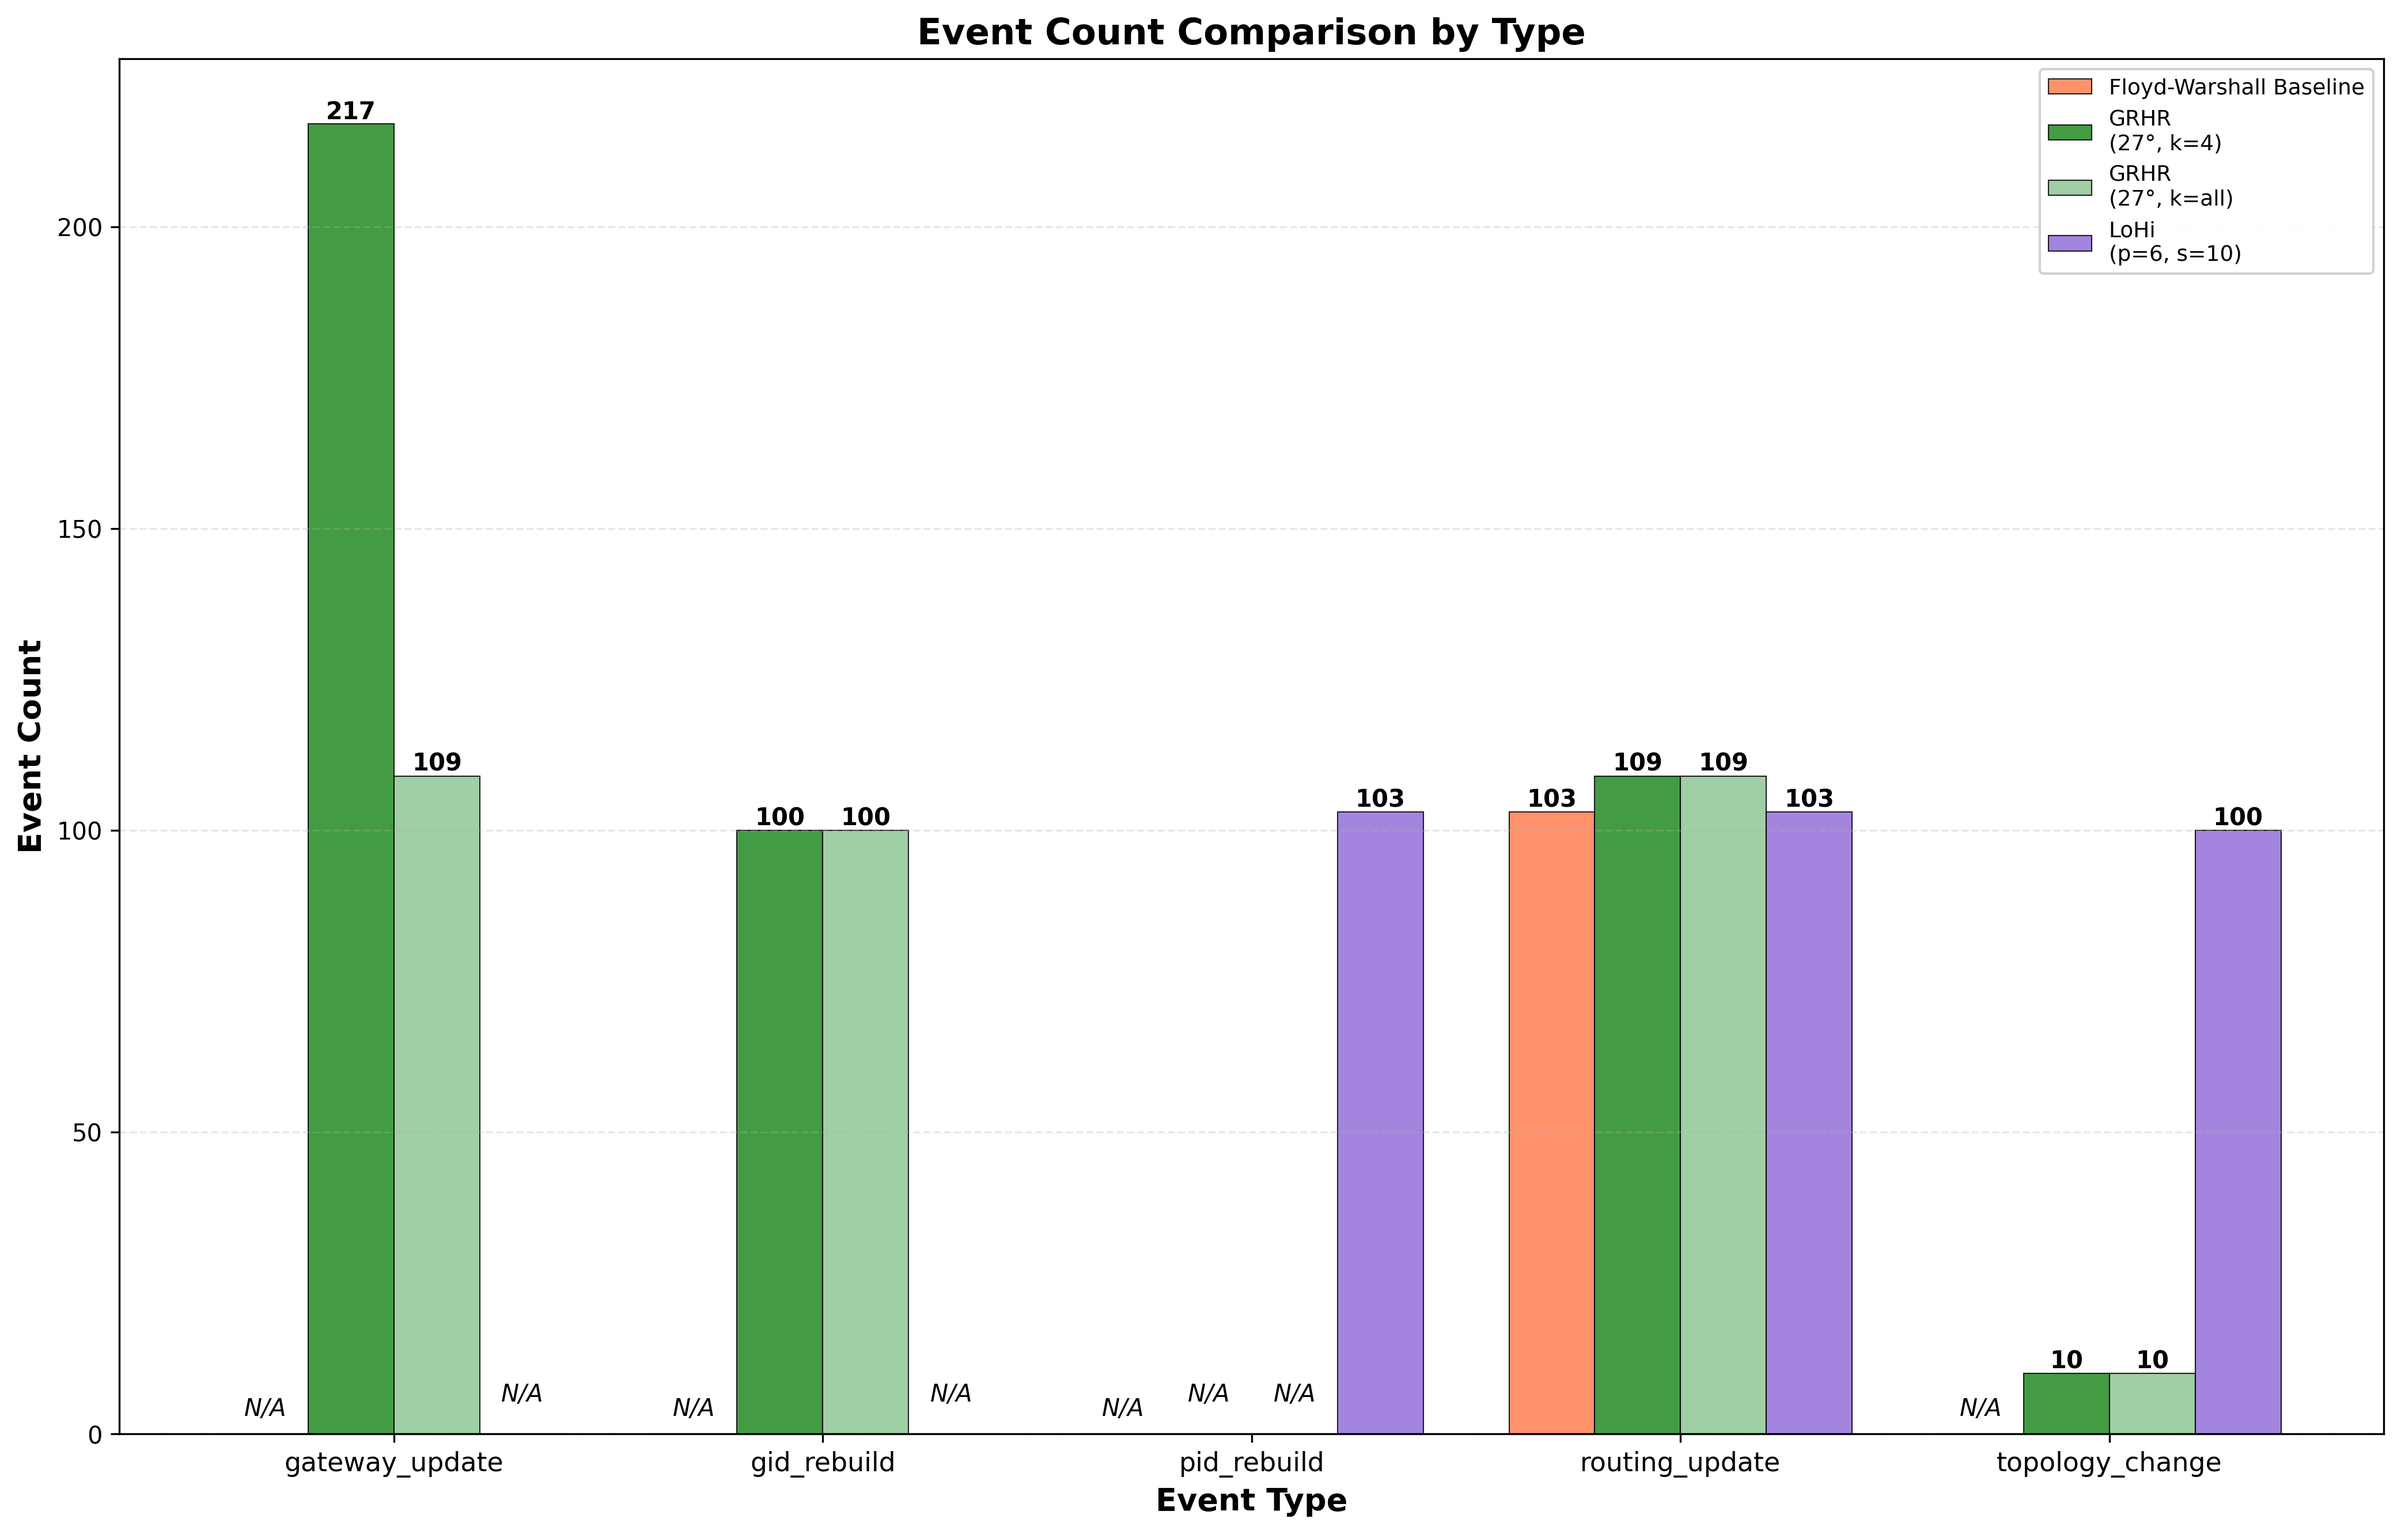
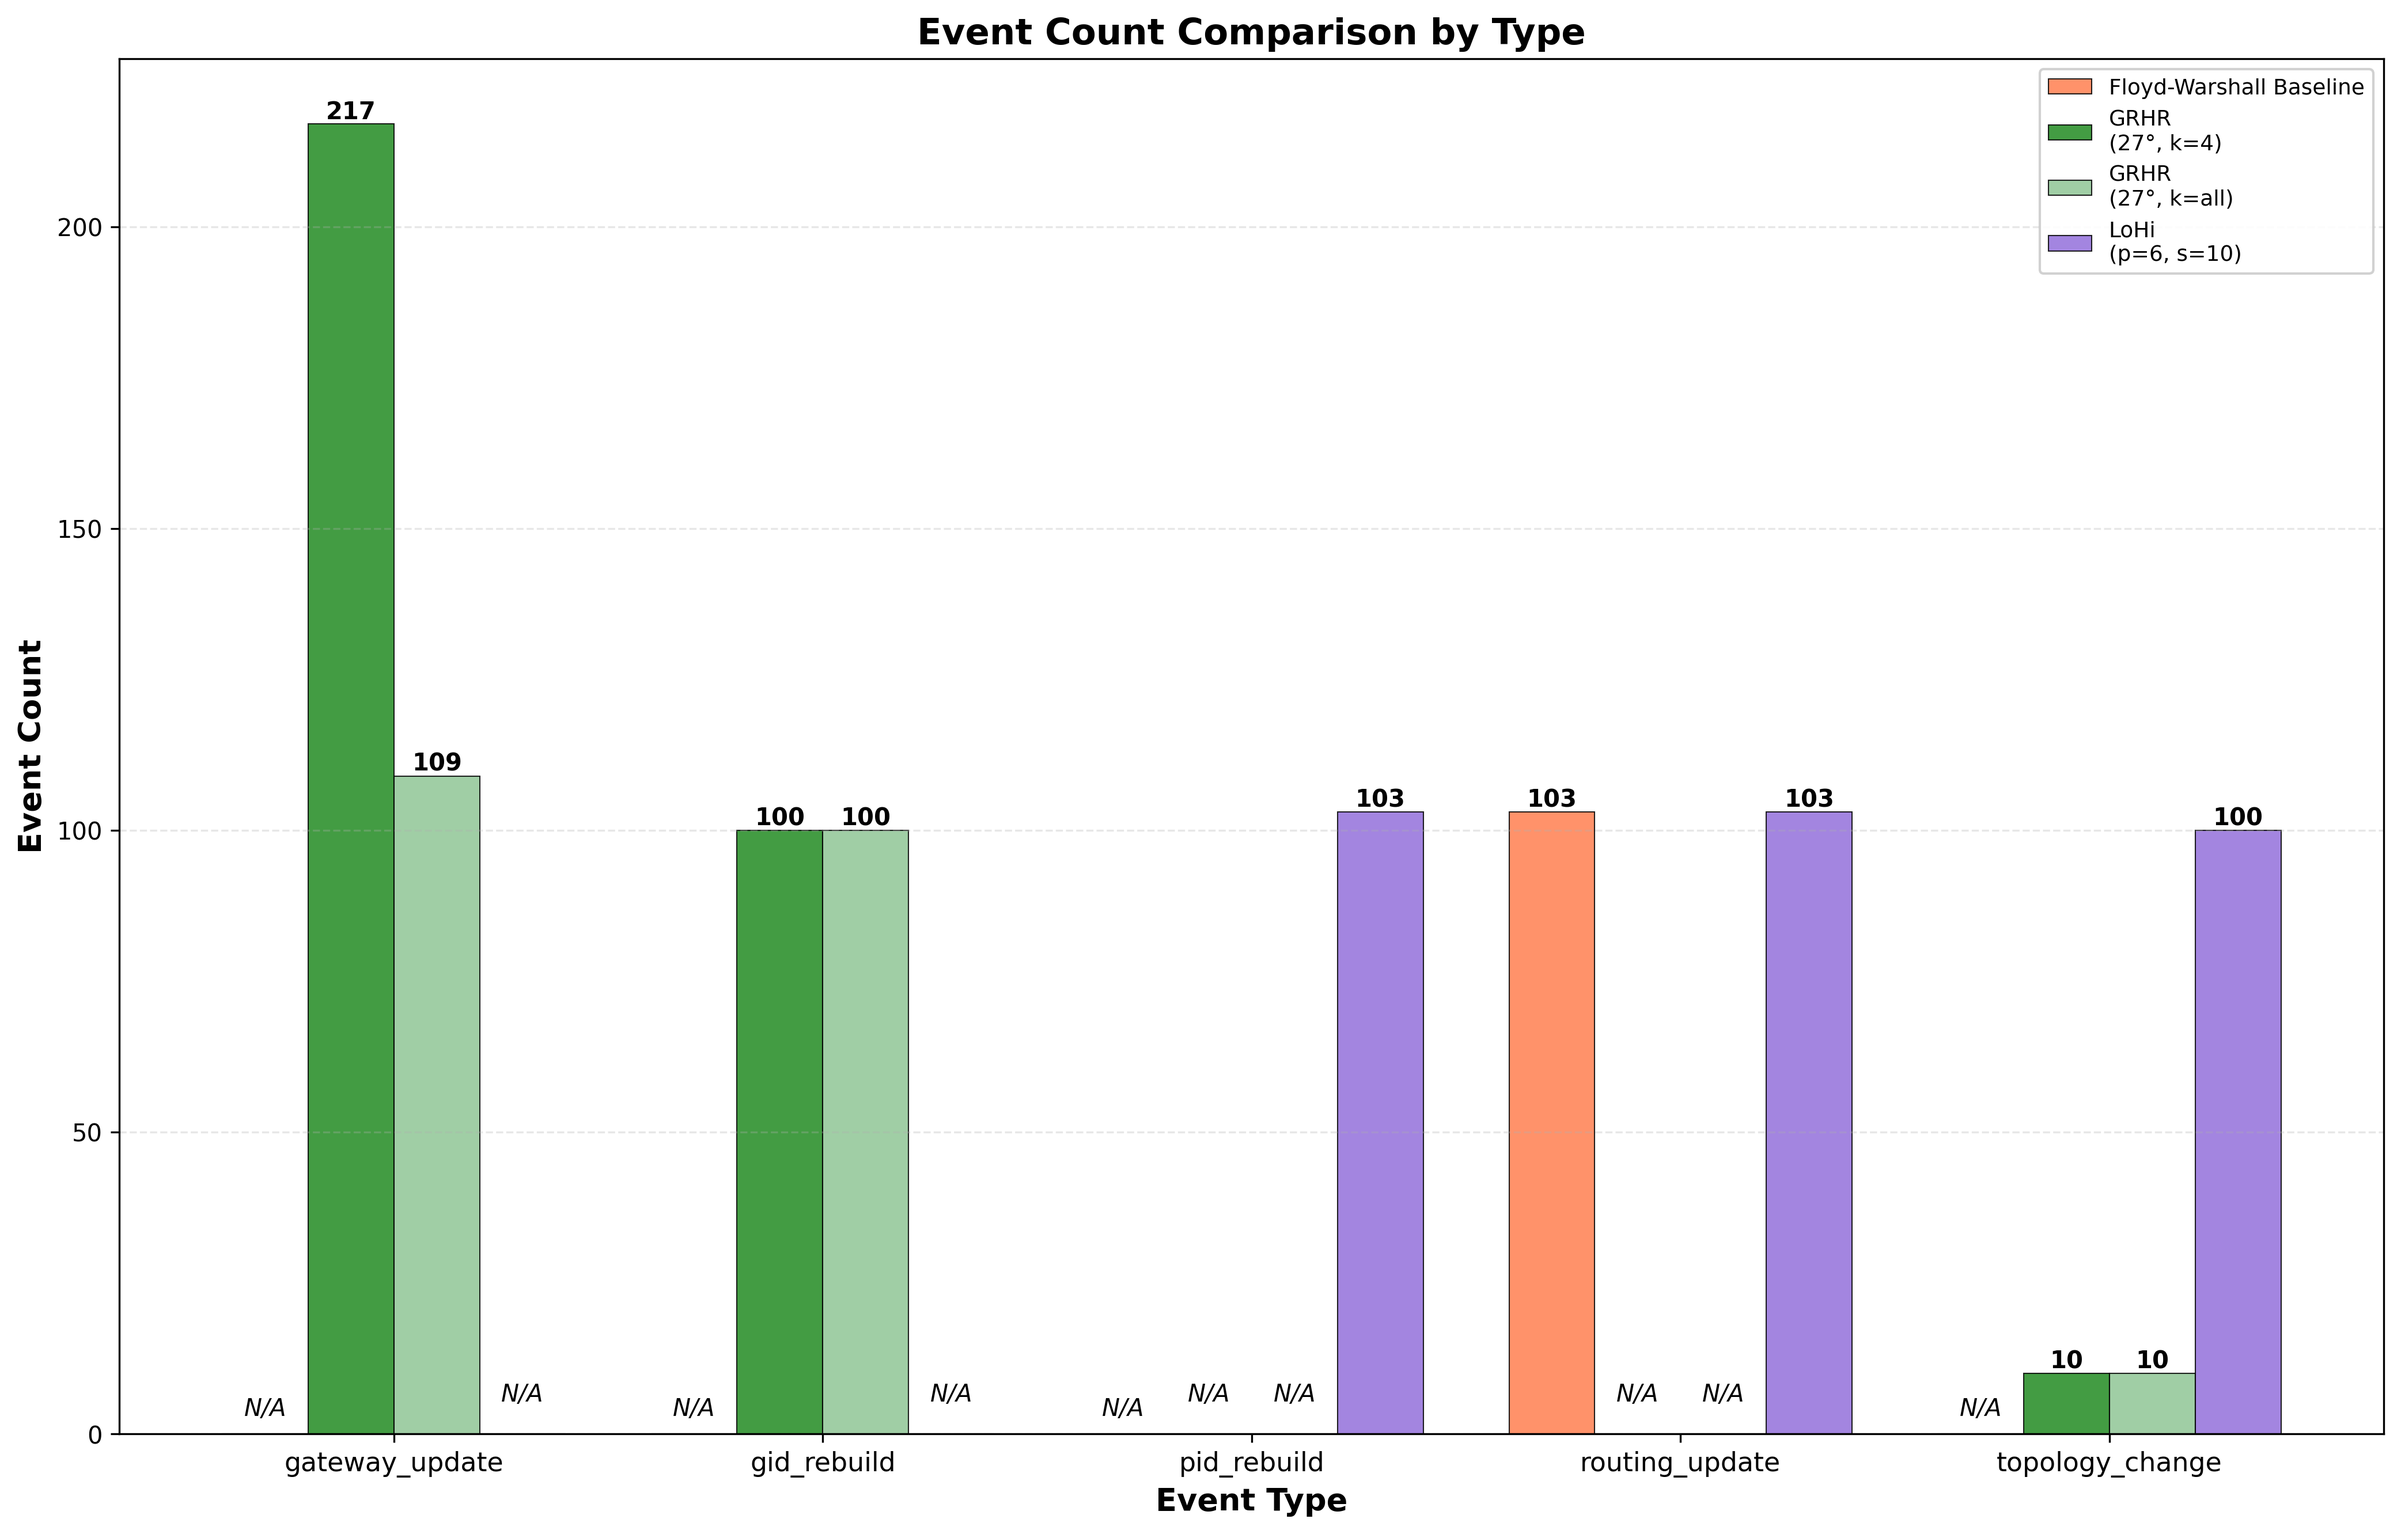
fear: new and adjust the mutiple algo control signaling count logic

Changed region(s): [[0.655, 0.4985, 0.7486, 0.9347]]

diff --git a/hypatia_multi_algorithm_analyzer.py b/hypatia_multi_algorithm_analyzer.py
@@ -333,6 +333,9 @@ class MultiAlgorithmAnalyzer:
         
         # 生成比較報告
         self.generate_multi_comparison_report(algorithms_data, output_path)
+
+        # 生成 entries 對照報告（解釋每種事件如何換算 bytes）
+        self.generate_entries_reference_report(algorithms_data, output_path)
         
         # 生成可視化
         self.generate_multi_algorithm_charts(algorithms_data, output_path)
@@ -411,6 +414,149 @@ class MultiAlgorithmAnalyzer:
                         f.write(f"  {algo['name']:40s}: N/A\n")
         
         print(f"📄 比較報告已保存: {report_file}")
+
+    def _collect_entry_stats(self, algo):
+        """依照 normalize 規則統計各事件的 entry 數量與公式 bytes。"""
+        data = algo.get('data', {})
+        summary = data.get('summary', {})
+        by_type = summary.get('by_type', {})
+        timeline = data.get('timeline', [])
+
+        is_lohi = algo.get('category') == 'lohi'
+        stats = {}
+
+        def _ensure(ev):
+            if ev not in stats:
+                stats[ev] = {
+                    'events': int(by_type.get(ev, {}).get('count', 0) or 0),
+                    'entries_total': 0,
+                    'header_units': 0,
+                    'entry_bytes': 0,
+                    'calc_bytes': 0,
+                    'summary_bytes': int(by_type.get(ev, {}).get('bytes', 0) or 0),
+                }
+
+        for row in timeline:
+            ev = row.get('event') or row.get('type')
+            if not ev:
+                continue
+            ev = str(ev)
+            detail = row.get('detail') or {}
+
+            n_entries = 0
+            hdr_units = 1
+            entry_bytes = 0
+
+            if ev == 'routing_update':
+                n_entries = int(detail.get('changed_entries', 0) or 0)
+                entry_bytes = ROUTE_ENTRY_BYTES
+            elif ev == 'topology_change':
+                if 'delta_group_edges' in detail:
+                    n_entries = abs(int(detail.get('delta_group_edges', 0) or 0))
+                    entry_bytes = GROUP_TOPO_ENTRY_BYTES if is_lohi else PHYS_TOPO_ENTRY_BYTES
+                else:
+                    n_entries = abs(int(detail.get('delta_isl', 0) or 0)) + abs(int(detail.get('delta_gsl', 0) or 0))
+                    if n_entries == 0 and 'delta_edges' in detail:
+                        n_entries = abs(int(detail.get('delta_edges', 0) or 0))
+                    entry_bytes = PHYS_TOPO_ENTRY_BYTES
+            elif ev == 'gid_rebuild':
+                n_entries = int(detail.get('changed_gids', 0) or 0)
+                entry_bytes = ID_ENTRY_BYTES
+            elif ev == 'pid_rebuild':
+                n_entries = int(detail.get('changed_pids', 0) or 0)
+                entry_bytes = ID_ENTRY_BYTES
+            elif ev == 'gateway_update':
+                n_msgs = int(detail.get('num_messages', 0) or 0)
+                n_entries = int(detail.get('num_entries', 0) or 0)
+                if n_msgs == 0 and n_entries == 0:
+                    changed_pairs = int(detail.get('changed_pairs', 0) or 0)
+                    k = int(detail.get('k', 0) or detail.get('k_used', 0) or 0)
+                    n_msgs = changed_pairs
+                    n_entries = changed_pairs * max(k, 1)
+                hdr_units = n_msgs
+                entry_bytes = GATEWAY_ENTRY_BYTES
+            else:
+                # 其他未知事件，不納入 entries 對照
+                continue
+
+            calc_bytes = hdr_units * CTRL_HDR_BYTES + n_entries * entry_bytes
+            _ensure(ev)
+            stats[ev]['entries_total'] += n_entries
+            stats[ev]['header_units'] += hdr_units
+            stats[ev]['entry_bytes'] = entry_bytes
+            stats[ev]['calc_bytes'] += calc_bytes
+
+        # 若某事件在 summary 出現但 timeline 未累積到，仍保留列（方便對照）
+        for ev in by_type.keys():
+            _ensure(ev)
+
+        return stats
+
+    def generate_entries_reference_report(self, algorithms_data, output_path):
+        """輸出每演算法、每事件類型對應的 entries 對照報告。"""
+        report_file = output_path / "multi_algorithm_entries_reference.txt"
+
+        with open(report_file, 'w', encoding='utf-8') as f:
+            f.write("Hypatia 控制信令 Entries 對照報告\n")
+            f.write("=" * 90 + "\n")
+            f.write(f"生成時間: {datetime.now().strftime('%Y-%m-%d %H:%M:%S')}\n\n")
+
+            f.write("統一位元組模型（normalize）:\n")
+            f.write(f"  - CTRL_HDR_BYTES = {CTRL_HDR_BYTES}\n")
+            f.write(f"  - ROUTE_ENTRY_BYTES = {ROUTE_ENTRY_BYTES}\n")
+            f.write(f"  - PHYS_TOPO_ENTRY_BYTES = {PHYS_TOPO_ENTRY_BYTES}\n")
+            f.write(f"  - GROUP_TOPO_ENTRY_BYTES = {GROUP_TOPO_ENTRY_BYTES}\n")
+            f.write(f"  - ID_ENTRY_BYTES = {ID_ENTRY_BYTES}\n")
+            f.write(f"  - GATEWAY_ENTRY_BYTES = {GATEWAY_ENTRY_BYTES}\n\n")
+
+            f.write("事件 -> entries 推導規則:\n")
+            f.write("  - routing_update: entries = changed_entries\n")
+            f.write("  - topology_change: entries = |delta_group_edges| (LoHi) 或 |delta_isl|+|delta_gsl|\n")
+            f.write("  - gid_rebuild: entries = changed_gids\n")
+            f.write("  - pid_rebuild: entries = changed_pids\n")
+            f.write("  - gateway_update: entries = num_entries (或 changed_pairs * k_used), headers = num_messages\n")
+            f.write("\n")
+            f.write("備註: Chart1/Chart2 的 GRHR 會排除 routing_update（視為衛星本地計算）。\n")
+            f.write("=" * 90 + "\n")
+
+            ordered_events = [
+                'gateway_update',
+                'gid_rebuild',
+                'pid_rebuild',
+                'routing_update',
+                'topology_change',
+            ]
+
+            for algo in algorithms_data:
+                f.write(f"\n【{algo['name']}】\n")
+                f.write("-" * 90 + "\n")
+                f.write(f"{'Event':<18} {'Events':>8} {'Entries':>12} {'AvgEntry/Event':>15} {'Headers':>10} {'EntryB':>8} {'CalcBytes':>14} {'SummaryBytes':>14}\n")
+                f.write("-" * 90 + "\n")
+
+                stats = self._collect_entry_stats(algo)
+                all_events = ordered_events + [e for e in stats.keys() if e not in ordered_events]
+
+                total_entries_all = 0
+                for ev in all_events:
+                    if ev not in stats:
+                        continue
+
+                    item = stats[ev]
+                    events = int(item.get('events', 0) or 0)
+                    entries = int(item.get('entries_total', 0) or 0)
+                    avg = (entries / events) if events > 0 else 0.0
+                    headers = int(item.get('header_units', 0) or 0)
+                    entry_b = int(item.get('entry_bytes', 0) or 0)
+                    calc_b = int(item.get('calc_bytes', 0) or 0)
+                    sum_b = int(item.get('summary_bytes', 0) or 0)
+
+                    total_entries_all += entries
+                    f.write(f"{ev:<18} {events:>8,d} {entries:>12,d} {avg:>15.2f} {headers:>10,d} {entry_b:>8,d} {calc_b:>14,d} {sum_b:>14,d}\n")
+
+                f.write("-" * 90 + "\n")
+                f.write(f"{'TOTAL':<18} {'':>8} {total_entries_all:>12,d}\n")
+
+        print(f"📄 Entries 對照報告已保存: {report_file}")
     
     def generate_multi_algorithm_charts(self, algorithms_data, output_path):
         """生成多算法比較圖表"""
@@ -428,6 +574,20 @@ class MultiAlgorithmAnalyzer:
         self._chart4_improvement_multi(algorithms_data, output_path)
         
         print(f"✅ 所有圖表已保存到: {output_path}/")
+
+    def _chart1_metrics(self, algo):
+        """Chart1 metrics with GRHR routing_update excluded."""
+        summary = algo['data'].get('summary', {})
+        by_type = summary.get('by_type', {})
+        total_bytes = int(summary.get('total_bytes', 0) or 0)
+        total_events = int(summary.get('total_events', 0) or 0)
+
+        if algo.get('category') == 'hierarchical_floyd':
+            routing_bytes = int(by_type.get('routing_update', {}).get('bytes', 0) or 0)
+            routing_events = int(by_type.get('routing_update', {}).get('count', 0) or 0)
+            return max(total_bytes - routing_bytes, 0), max(total_events - routing_events, 0)
+
+        return total_bytes, total_events
     
     def _chart1_overall_multi(self, algorithms_data, output_path):
         """圖表1: 多算法總體比較"""
@@ -439,10 +599,11 @@ class MultiAlgorithmAnalyzer:
         
         names = [algo['name'] for algo in algorithms_data]
         labels_for_plot = [name.replace(' (', '\n(') for name in names]
-        # Chart 1, 2 使用 control_signaling_bytes 和 control_events（GRHR 已排除 routing_update）
-        total_bytes = [algo['control_signaling_bytes'] for algo in algorithms_data]
+        # Chart 1 明確以「GRHR 排除 routing_update」規則計算
+        metrics = [self._chart1_metrics(algo) for algo in algorithms_data]
+        total_bytes = [m[0] for m in metrics]
         total_bytes_mb = [b / (1024 * 1024) for b in total_bytes]  # 轉換為 MB
-        control_events = [algo['control_events'] for algo in algorithms_data]  # 修改為使用控制事件數
+        control_events = [m[1] for m in metrics]
         
         # 改進的顏色編碼：使用漸變色表示不同網格大小
         colors = []
@@ -659,6 +820,12 @@ class MultiAlgorithmAnalyzer:
             has_data_flags = []  # 記錄是否有數據
             
             for event_type in all_event_types:
+                # GRHR 的 routing_update 在圖表3視為 N/A（衛星本地計算，不視為控制信令）
+                if algo.get('category') == 'hierarchical_floyd' and event_type == 'routing_update':
+                    counts.append(0)
+                    has_data_flags.append(False)
+                    continue
+
                 if 'by_type' in summary and event_type in summary['by_type']:
                     counts.append(summary['by_type'][event_type]['count'])
                     has_data_flags.append(True)
